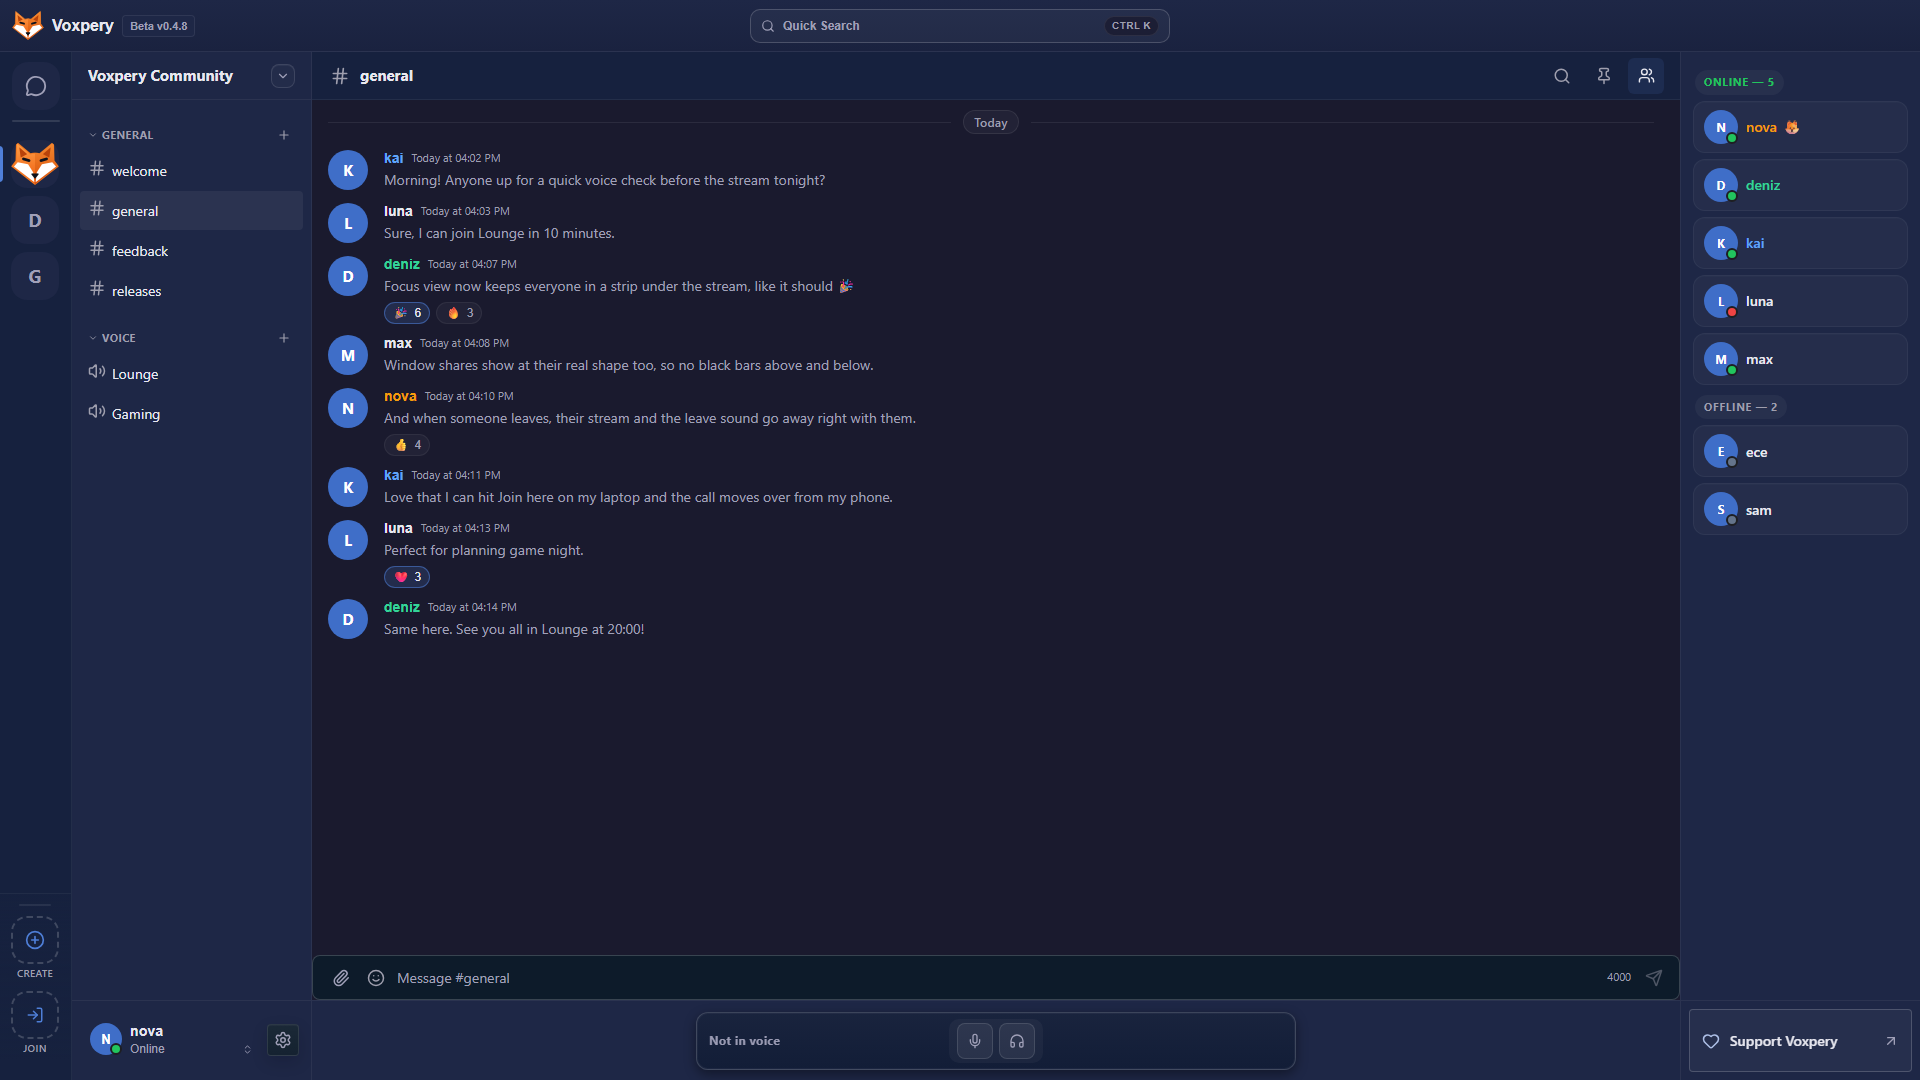
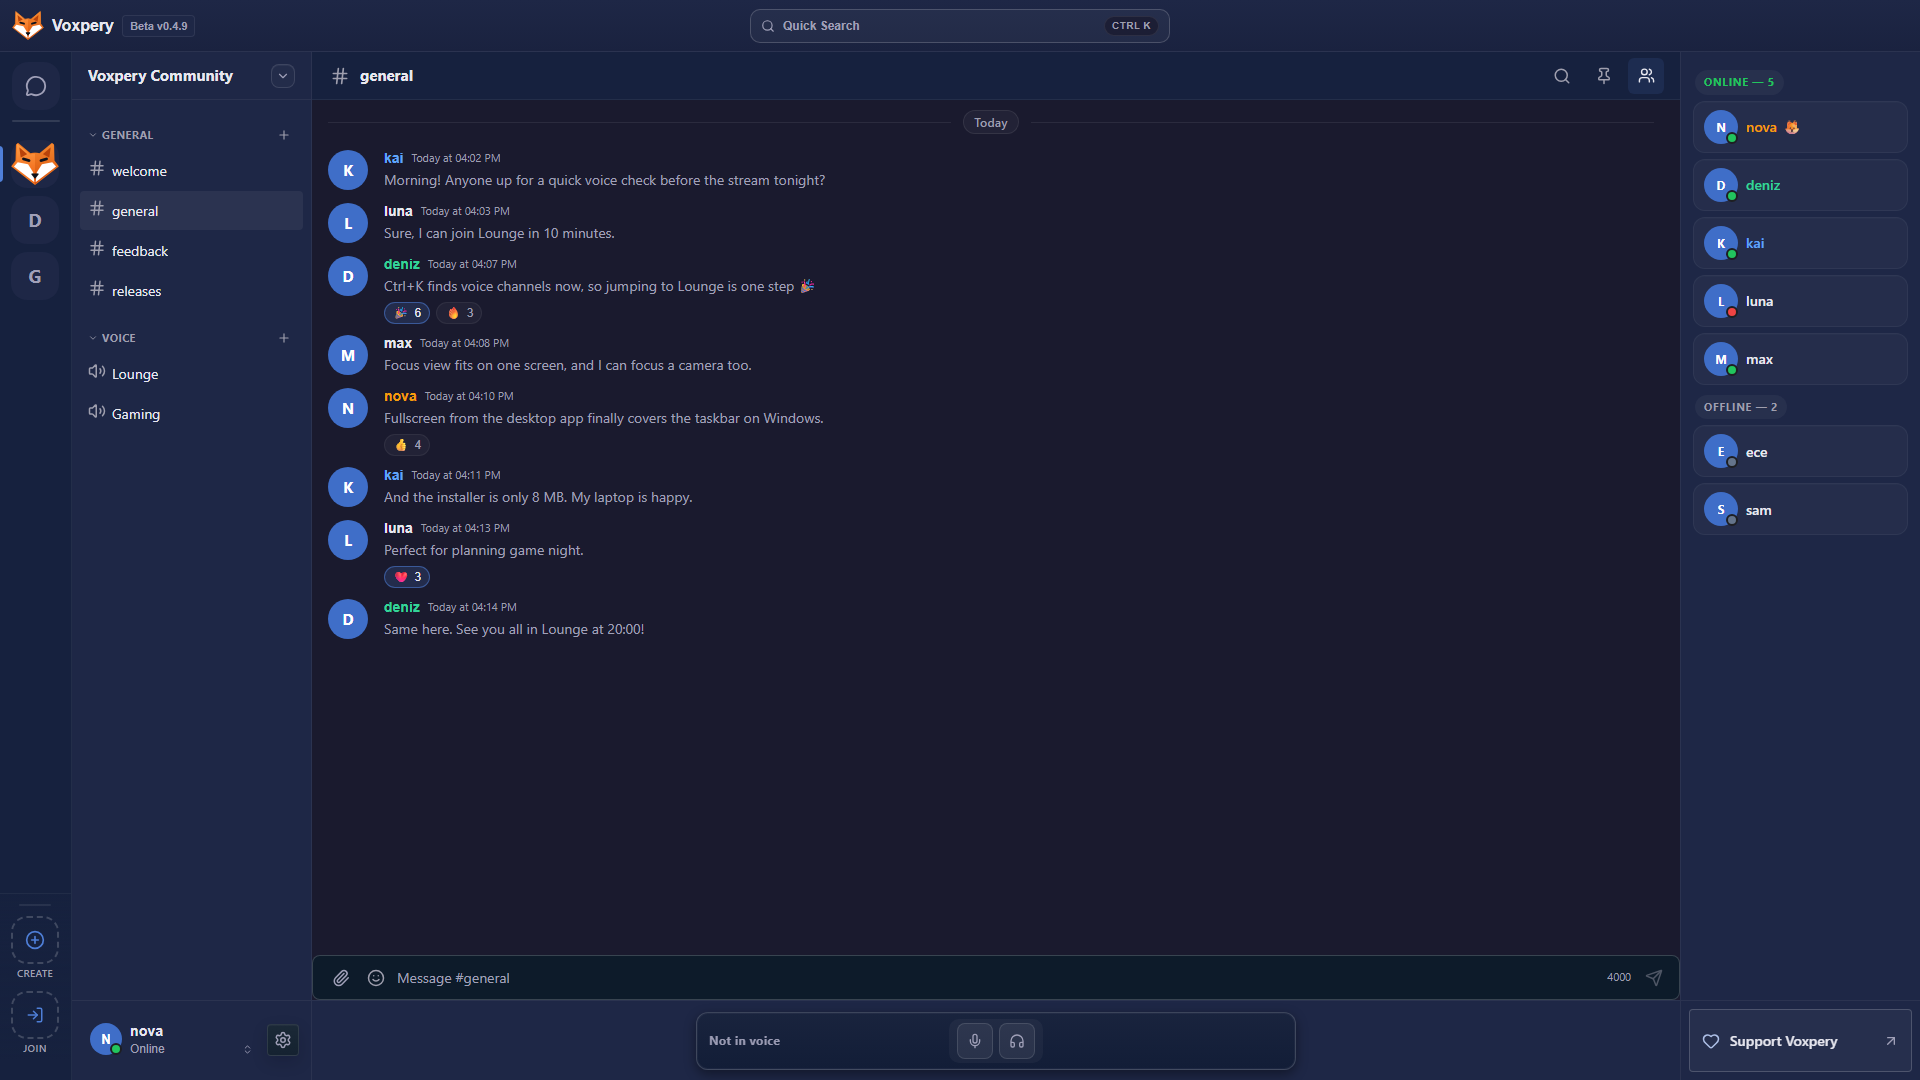
chore(release): prepare v0.4.9 (#469)
* chore(release): prepare v0.4.9

* chore(release): refresh the product screenshot for v0.4.9

* fix(web): keep the voice timer width stable when the first hour begins

The v0.4.8 bars-and-time timer dropped the fixed width the release regression suite checks, so the timer grew at 1:00:00 and shifted the channel name. The time now reserves room for h:mm:ss, and the test checks the time span instead of the old 72px frame.

* chore(deps): security updates

Changed region(s): [[0.1875, 0.3361, 0.4688, 0.3972], [0.1875, 0.4583, 0.4688, 0.4889], [0.1875, 0.2444, 0.4375, 0.275]]

diff --git a/apps/web/e2e/social-activity-regressions.spec.ts b/apps/web/e2e/social-activity-regressions.spec.ts
@@ -181,7 +181,8 @@ for (const scenario of [
     }
     expect(await participants.evaluateAll(rows => rows.every(row => row.scrollWidth <= row.clientWidth))).toBe(true)
     const timer = sidebar.getByRole('timer')
-    await expect(timer).toHaveCSS('width', '72px')
+    // The bars-and-time timer (v0.4.8) has no fixed width; it reserves room for the hour instead.
+    await expect(timer).toBeVisible()
     await page.clock.install()
     await page.evaluate(async channel => {
       const path = '/e2e/social-activity-fixture.ts'
@@ -190,7 +191,8 @@ for (const scenario of [
     const before = await timer.boundingBox()
     await page.clock.fastForward(1000)
     await expect(timer).toHaveText('1:00:00')
-    expect(await timer.locator('span').evaluate(el => el.scrollWidth <= el.clientWidth)).toBe(true)
+    // The time is the last span; the first one holds the three bars.
+    expect(await timer.locator('span').last().evaluate(el => el.scrollWidth <= el.clientWidth)).toBe(true)
     expect(await timer.boundingBox()).toEqual(before)
     await expect(timer).toHaveAttribute('aria-live', 'off')
     expect(await sidebar.evaluate(el => el.scrollWidth <= el.clientWidth)).toBe(true)

diff --git a/apps/web/src/index.css b/apps/web/src/index.css
@@ -1827,7 +1827,8 @@ body:has(.desktop-window-strip):not(:has(.shell-topbar)) #root {
   line-height: 18px;
   font-variant-numeric: tabular-nums;
 }
-.channel-voice-duration > span:last-child { white-space: nowrap; }
+/* Room for "9:59:59" from the start, so the timer keeps its width when the first hour begins. */
+.channel-voice-duration > span:last-child { white-space: nowrap; min-width: 7ch; text-align: right; }
 /* A fixed three-bar voice wave; it marks an active channel and never animates. */
 .channel-voice-duration__wave { display: inline-flex; align-items: flex-end; gap: 2px; height: 11px; flex-shrink: 0; }
 .channel-voice-duration__wave > i { display: block; width: 2px; border-radius: 1px; background: currentColor; }

diff --git a/docs/RELEASE_SMOKE_TEST_CHECKLIST.md b/docs/RELEASE_SMOKE_TEST_CHECKLIST.md
@@ -26,13 +26,25 @@ For releases that touch voice, WebRTC, LiveKit, service workers, build output, o
 
 ## Release Candidate Info
 
-### v0.4.8 preparation (not release sign-off)
+### v0.4.9 preparation (not release sign-off)
 
-Version metadata is prepared for `0.4.8`; this does not certify release readiness. Complete remaining planned improvements before recording the final candidate commit. Rebuild that exact commit in WSL with Docker and isolated test data, then test the real backend and UI at 1920x1080 plus narrow desktop/mobile regressions. Mocked browser tests are supplementary, not a substitute for this check.
+Version metadata is prepared for `0.4.9`; this does not certify release readiness. Complete remaining planned improvements before recording the final candidate commit. Rebuild that exact commit in WSL with Docker and isolated test data, then test the real backend and UI at 1920x1080 plus narrow desktop/mobile regressions. Mocked browser tests are supplementary, not a substitute for this check.
 
 Record real desktop smoke results, two-user voice/screen-share and moderation/reconnect checks, real-device mobile background-audio results, required CI/security/build results, and any platform limitations before publishing. Keep the upstream-blocked glib advisory (#242) explicitly documented rather than marking it fixed.
 
-For the final tag build, verify Docker images `voxpery/voxpery-server:v0.4.8` and `voxpery/voxpery-web:v0.4.8`, the embedded web badge/build tag, desktop version `0.4.8`, the `Voxpery_0.4.8_x86_64.flatpak` asset (name and bundled metainfo version), and the release-generated updater `latest.json` version all agree. Scan both images (Docker Hub or `docker scout`) and record any remaining critical or high findings with a reason. Do not publish a placeholder updater manifest or tag unvalidated images as a release. Leave sign-off fields unchecked until the final candidate is tested.
+For the final tag build, verify Docker images `voxpery/voxpery-server:v0.4.9` and `voxpery/voxpery-web:v0.4.9`, the embedded web badge/build tag, desktop version `0.4.9`, the `Voxpery_0.4.9_x86_64.flatpak` asset (name and bundled metainfo version), and the release-generated updater `latest.json` version all agree. Scan both images (Docker Hub or `docker scout`) and record any remaining critical or high findings with a reason. Do not publish a placeholder updater manifest or tag unvalidated images as a release. Leave sign-off fields unchecked until the final candidate is tested.
+
+### v0.4.9 checks
+
+- [ ] After the deploy, a signed-in account is asked once to acknowledge the `2026-10-23` Terms, Privacy Notice and KVKK notice and then continues normally; registration shows and records the same versions. `/terms`, `/privacy` and `/kvkk` match `docs/` word for word.
+- [ ] Upload a profile photo and a server icon whose file extension or type label is wrong (a JPEG saved as `.png`): it is shown everywhere, and a file that is not an image is refused with an error.
+- [ ] Profile cards, message search, timeouts, the audit log and moderation lists show dates like chat ("Aug 8, 2026 06:09 PM") with the browser set to another language.
+- [ ] Quick Search (Ctrl+K) lists voice channels with a speaker icon; picking one opens the channel without joining it.
+- [ ] Clicking a voice channel shows "Connecting to …" and a disabled "Joining…" button until the call starts, also when switching from another voice channel; a failed join brings Join voice back.
+- [ ] Focus view at 1920x1080, 1366x768, 960 px and on a phone: no scroll bar with the strip shown or hidden, the strip stays on one line with "+N" for the rest, and the strip arrow never covers the stream's fullscreen button. A camera can be focused, Esc leaves the focus view, double-clicking the focused stream toggles fullscreen, the hidden strip stays hidden after a reload, and a speaking participant's camera tile gets the ring.
+- [ ] Desktop (Windows, installed release build): fullscreen from a maximized window on the monitor with the taskbar covers the whole screen with no band or border, and the window is maximized again afterwards; check a second DPI scale or taskbar position if available.
+- [ ] Desktop (Windows): with Voxpery started at login (in the tray), install the update from Settings; the new version opens in front. A later login without an update still starts in the tray.
+- [ ] Production server: the log pruning cron is installed (dry run checked first), `db_backup.sh` removes backups older than 14 days, and the one-off pre-cleanup SQL dump is deleted (M-110).
 
 ### v0.4.8 checks
 

diff --git a/docs/CHANGELOG.md b/docs/CHANGELOG.md
@@ -5,7 +5,10 @@ All notable changes to this project will be documented in this file.
 The format is based on [Keep a Changelog](https://keepachangelog.com/en/1.1.0/),
 and this project adheres to [Semantic Versioning](https://semver.org/spec/v2.0.0.html).
 
-## [Unreleased]
+## [0.4.9] - 2026-10-23
+
+### Security
+- Security updates.
 
 ### Added
 - Focus view improvements: cameras can be focused like screen shares, the participant strip stays hidden once you hide it, Esc leaves the focus view, double-clicking the focused stream toggles fullscreen, and camera tiles of whoever is speaking get the speaking ring.
@@ -17,6 +20,7 @@ and this project adheres to [Semantic Versioning](https://semver.org/spec/v2.0.0
 - Self-hosting: `db_backup.sh` deletes backups older than 14 days after each successful backup (`BACKUP_RETENTION_DAYS`, `0` keeps all), and the new `prune_container_logs.sh` keeps container logs under 14 days.
 
 ### Fixed
+- The voice channel timer keeps its width when a call passes the first hour, so the channel name next to it no longer shifts.
 - Desktop app on Windows: fullscreen from a maximized window now really covers the whole screen. The runtime already made the window fullscreen while it was still maximized, so the 0.4.8 fix never ran and a taskbar-high black band stayed at the bottom.
 - Desktop app on Windows: after installing an update from Settings, the new version opens in front, even when Voxpery had been started at login and was waiting in the tray.
 - Focus view fits on one screen: the participant strip no longer adds a scroll bar, it stays on one line with a "+N" tile for everyone who does not fit (selecting it shows everyone), and the show/hide arrow sits below the stream instead of covering its fullscreen button.
